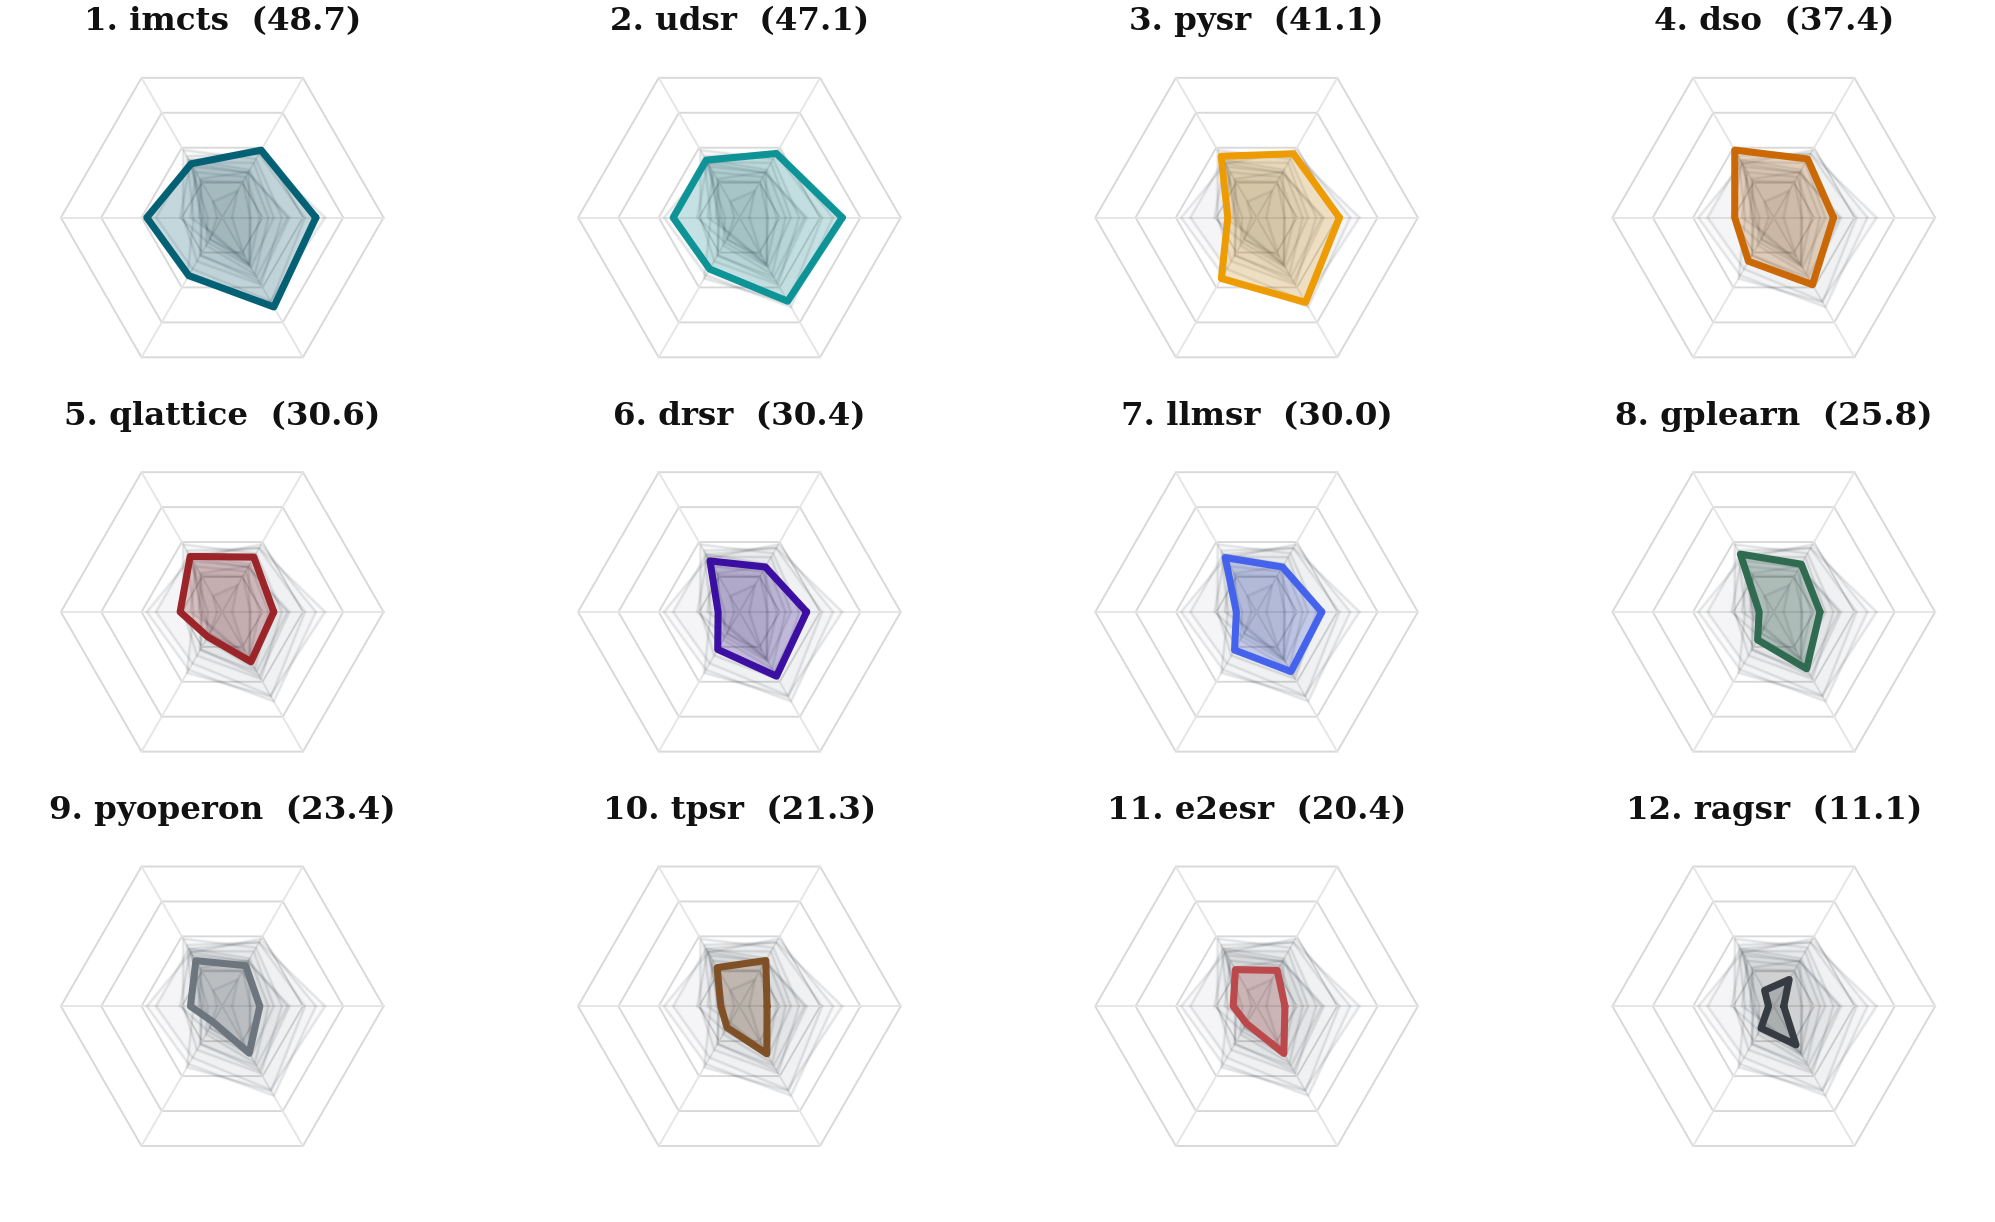
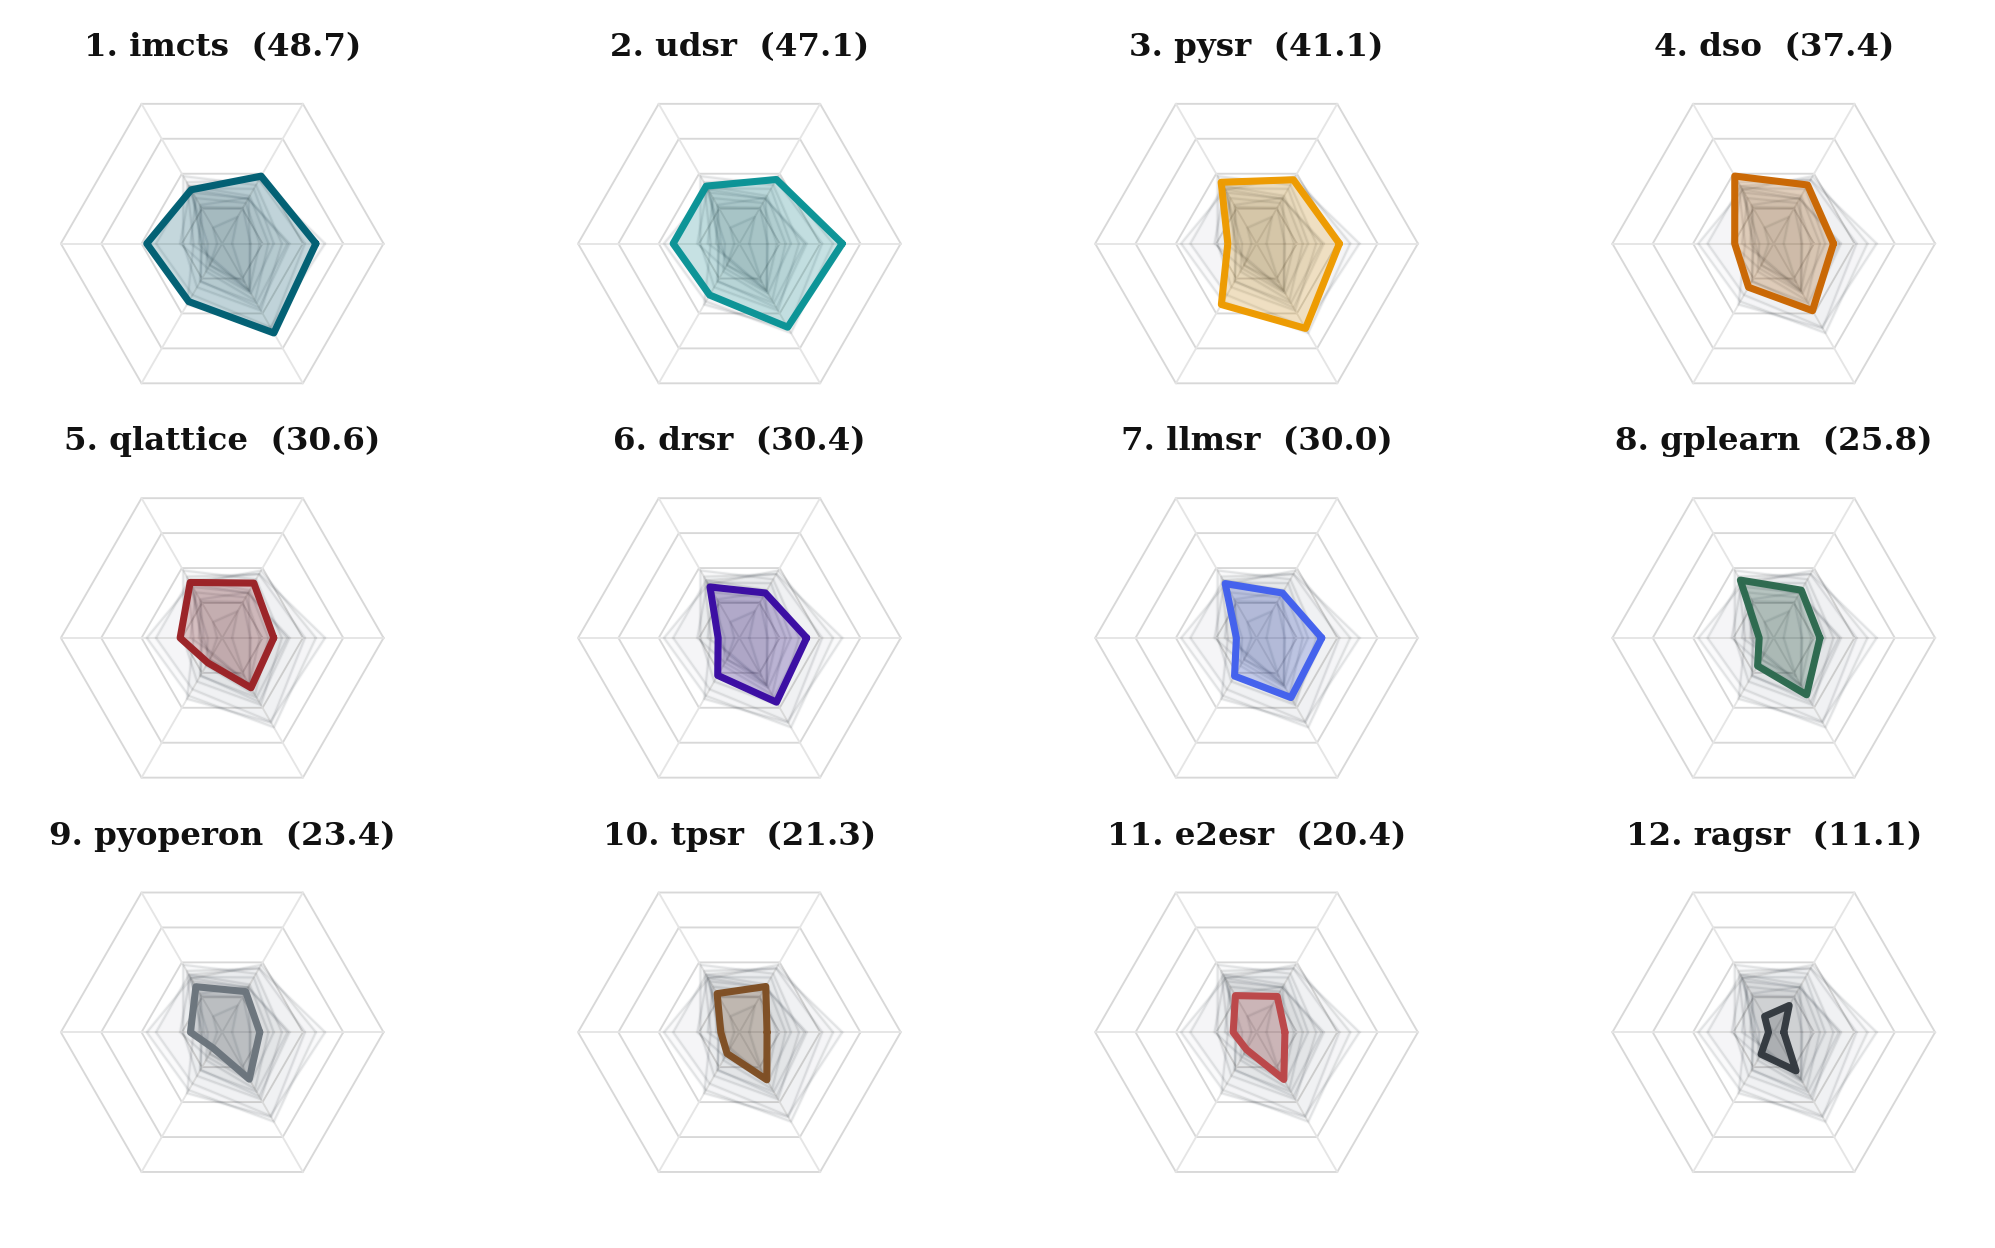
[update] 增加六轴小图顶部边距

diff --git a/check/plot_hexagon_small_multiples_neurips.py b/check/plot_hexagon_small_multiples_neurips.py
@@ -15,6 +15,7 @@ import shutil
 from pathlib import Path
 
 import matplotlib.pyplot as plt
+from matplotlib.transforms import Bbox
 import numpy as np
 import pandas as pd
 
@@ -30,6 +31,7 @@ SCORE_COL = "HexaScore_formal_with_ROB"
 GRID_SCORE_LEVELS = [0.25, 0.50, 0.75, 1.00]
 HIGHLIGHT_FILL_ALPHA = 0.20
 SAVE_PAD_INCHES = 0.02
+SAVE_TOP_EXTRA_PAD_INCHES = 0.08
 SUBPLOTS_TOP = 0.935
 HIGHLIGHT_COLORS = [
     "#005f73",
@@ -103,6 +105,18 @@ def draw_grid(ax: plt.Axes, angles: np.ndarray, *, show_axis_labels: bool = Fals
         ax.text(x, y, label, ha=ha, va=va, fontsize=5.8, color="#4b4b4b")
 
 
+def tight_bbox_with_top_padding(fig: plt.Figure) -> Bbox:
+    """对 tight bbox 做非对称扩展：顶部额外留白，其他边保持紧凑。"""
+    fig.canvas.draw()
+    bbox = fig.get_tightbbox(fig.canvas.get_renderer())
+    return Bbox.from_extents(
+        bbox.x0 - SAVE_PAD_INCHES,
+        bbox.y0 - SAVE_PAD_INCHES,
+        bbox.x1 + SAVE_PAD_INCHES,
+        bbox.y1 + SAVE_PAD_INCHES + SAVE_TOP_EXTRA_PAD_INCHES,
+    )
+
+
 def render_small_multiples(
     df: pd.DataFrame,
     angles: np.ndarray,
@@ -159,8 +173,9 @@ def render_small_multiples(
 
     out_png = ANALYSIS_OUT / out_name
     out_pdf = out_png.with_suffix(".pdf")
-    fig.savefig(out_png, dpi=300, bbox_inches="tight", pad_inches=SAVE_PAD_INCHES)
-    fig.savefig(out_pdf, bbox_inches="tight", pad_inches=SAVE_PAD_INCHES)
+    export_bbox = tight_bbox_with_top_padding(fig)
+    fig.savefig(out_png, dpi=300, bbox_inches=export_bbox, pad_inches=0)
+    fig.savefig(out_pdf, bbox_inches=export_bbox, pad_inches=0)
     plt.close(fig)
 
     paper_png = PAPER_IMGS / out_png.name
@@ -187,6 +202,7 @@ def render_small_multiples(
         "layout_hspace": hspace,
         "layout_top": SUBPLOTS_TOP,
         "save_pad_inches": SAVE_PAD_INCHES,
+        "save_top_extra_pad_inches": SAVE_TOP_EXTRA_PAD_INCHES,
         "axis_labels": "caption_only",
         "axis_order_clockwise_from_top": AXIS_LABELS,
         "radial_scale": "linear: r=score/100",
